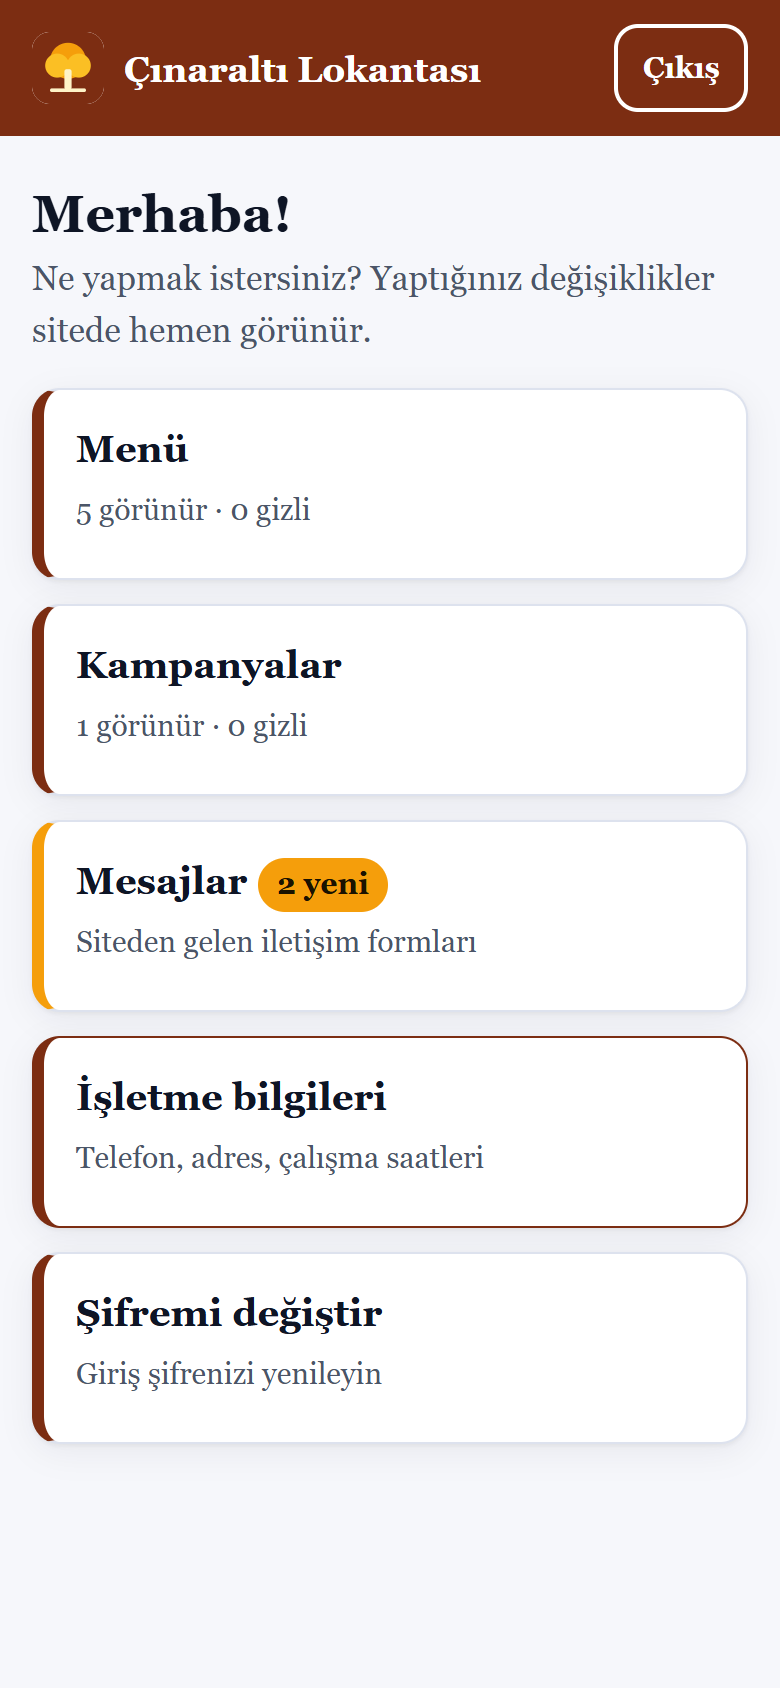
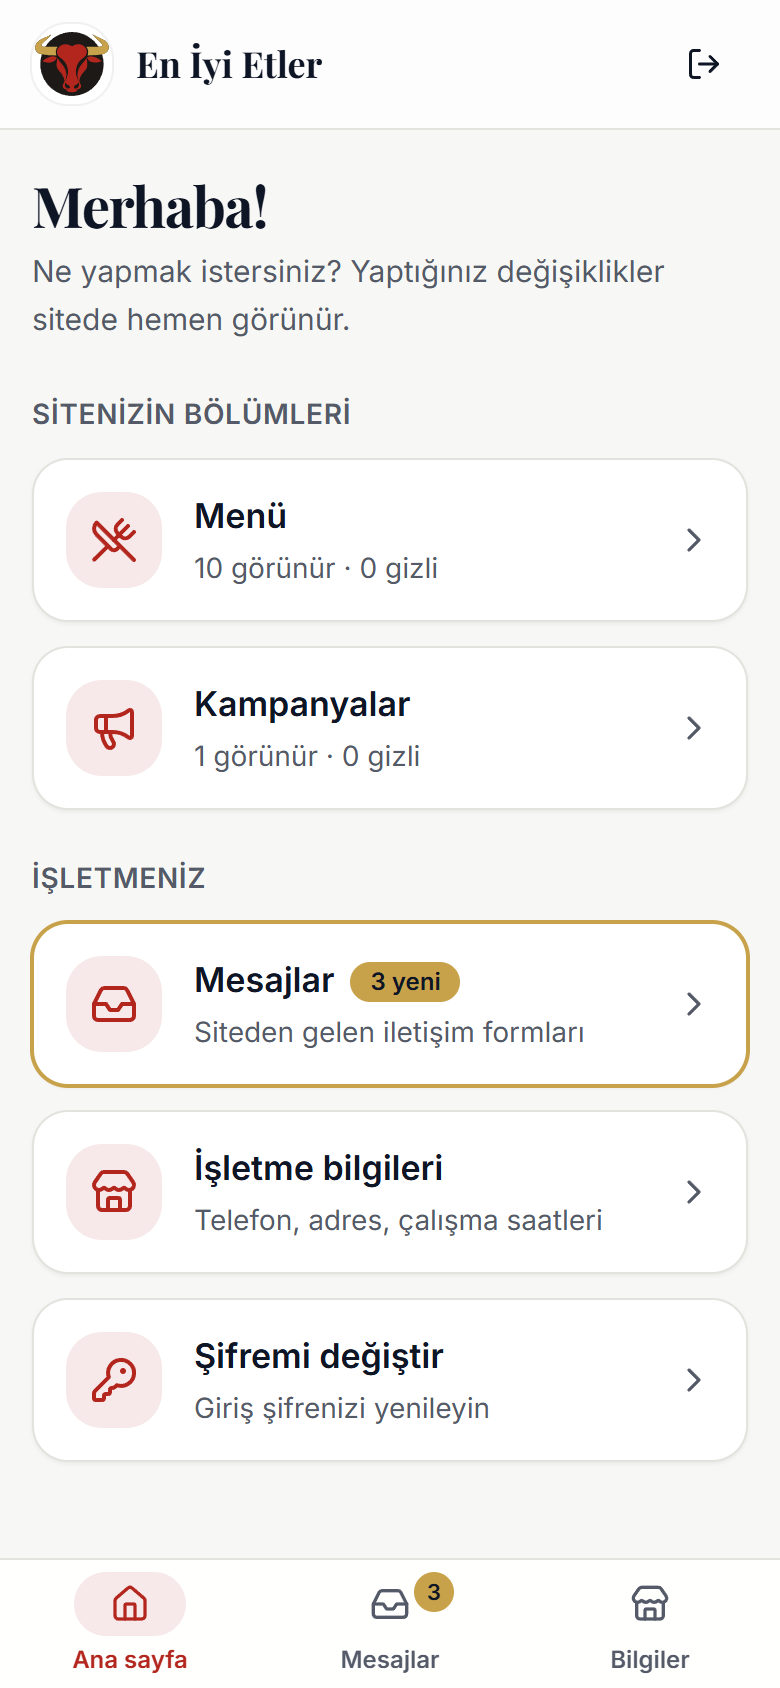
docs: update the admin guide and screenshots for the new panel
Screenshots now show the En İyi Etler panel on a phone and the example page on desktop and mobile.

diff --git a/scripts/docs-screenshots.js b/scripts/docs-screenshots.js
@@ -1,8 +1,8 @@
 'use strict';
 
 /**
- * Captures the admin panel screenshots used in README and docs/admin-rehberi.md.
- * Requires a running server with demo data (npm run seed:demo -- --password demo12345).
+ * Captures the screenshots used in README and docs/admin-rehberi.md.
+ * Requires a running server with demo data (npm run seed:demo -- --reset --password demo12345).
  *
  *   node scripts/docs-screenshots.js --url http://localhost:3000 --password demo12345
  */
@@ -20,77 +20,74 @@ const { values: opts } = parseArgs({
   },
 });
 
+const PHONE = {
+  viewport: { width: 390, height: 844 },
+  deviceScaleFactor: 2,
+  isMobile: true,
+  hasTouch: true,
+  locale: 'tr-TR',
+};
 const wait = (ms) => new Promise((resolve) => setTimeout(resolve, ms));
 
 (async () => {
   fs.mkdirSync(opts.out, { recursive: true });
   const browser = await launchBrowser();
-  const phone = await browser.newContext({
-    viewport: { width: 390, height: 844 },
-    deviceScaleFactor: 2,
-    isMobile: true,
-    hasTouch: true,
-    locale: 'tr-TR',
-  });
-  const page = await phone.newPage();
-  const shot = async (name) => {
-    await wait(400);
+  const save = async (page, name) => {
+    await wait(500);
     await page.screenshot({ path: path.join(opts.out, `${name}.png`) });
     console.log(`  ${name}.png`);
   };
 
-  await page.goto(`${opts.url}/admin/cinaralti-lokanta`);
+  const phone = await browser.newContext(PHONE);
+  const page = await phone.newPage();
+  await page.goto(`${opts.url}/admin/en-iyi-etler`);
   await page.waitForSelector('input[name="email"]');
-  await shot('admin-giris');
+  await save(page, 'admin-giris');
 
-  await page.fill('input[name="email"]', 'lokanta@example.com');
+  await page.fill('input[name="email"]', 'eniyietler@example.com');
   await page.fill('input[name="password"]', opts.password);
   await page.click('button[type="submit"]');
-  await page.waitForSelector('.tiles');
-  await shot('admin-ana-sayfa');
+  await page.waitForSelector('a[href="#/c/menu"]');
+  await save(page, 'admin-ana-sayfa');
 
   await page.click('a[href="#/c/menu"]');
-  await page.waitForSelector('.items');
-  await shot('admin-menu');
+  await page.waitForSelector('[data-testid="item-row"]');
+  await save(page, 'admin-menu');
 
-  await page.click('.item-actions a.btn');
+  await page.click('[data-testid="item-title"]');
   await page.waitForSelector('input[name="title"]');
-  await shot('admin-duzenle');
+  await save(page, 'admin-duzenle');
 
-  await page.goto(`${opts.url}/admin/cinaralti-lokanta#/mesajlar`);
-  await page.waitForSelector('.msg');
-  await shot('admin-mesajlar');
+  await page.goto(`${opts.url}/admin/en-iyi-etler#/mesajlar`);
+  await page.waitForSelector('[data-testid="message"]');
+  await save(page, 'admin-mesajlar');
 
-  await page.goto(`${opts.url}/admin/cinaralti-lokanta#/bilgiler`);
-  await page.waitForSelector('.hours');
-  await shot('admin-bilgiler');
+  await page.goto(`${opts.url}/admin/en-iyi-etler#/bilgiler`);
+  await page.waitForSelector('[data-testid="hours-row"]');
+  await save(page, 'admin-bilgiler');
 
   // Same panel, another customer's brand.
-  const fresh = await browser.newContext({
-    viewport: { width: 390, height: 844 },
-    deviceScaleFactor: 2,
-    isMobile: true,
-    locale: 'tr-TR',
-  });
-  const other = await fresh.newPage();
+  const other = await (await browser.newContext(PHONE)).newPage();
   await other.goto(`${opts.url}/admin/yildiz-kuruyemis`);
   await other.waitForSelector('input[name="email"]');
-  await wait(400);
-  await other.screenshot({ path: path.join(opts.out, 'admin-giris-baska-marka.png') });
-  console.log('  admin-giris-baska-marka.png');
+  await save(other, 'admin-giris-baska-marka');
 
-  // Example landing page on desktop.
-  const desktop = await browser.newContext({
-    viewport: { width: 1280, height: 860 },
+  // The En İyi Etler example page: desktop hero, menu section and a phone view.
+  const desktopContext = await browser.newContext({
+    viewport: { width: 1280, height: 800 },
     locale: 'tr-TR',
   });
-  const landing = await desktop.newPage();
-  await landing.goto(`${opts.url}/examples/restoran/`);
-  await landing.waitForSelector('html.lk-ready');
-  await landing.evaluate(() => document.querySelector('#menu').scrollIntoView());
-  await wait(400);
-  await landing.screenshot({ path: path.join(opts.out, 'ornek-restoran.png') });
-  console.log('  ornek-restoran.png');
+  const desktop = await desktopContext.newPage();
+  await desktop.goto(`${opts.url}/examples/en-iyi-etler/`);
+  await desktop.waitForSelector('html.lk-ready');
+  await save(desktop, 'ornek-sayfa');
+  await desktop.evaluate(() => document.querySelector('#menu').scrollIntoView());
+  await save(desktop, 'ornek-sayfa-menu');
+
+  const mobile = await (await browser.newContext(PHONE)).newPage();
+  await mobile.goto(`${opts.url}/examples/en-iyi-etler/`);
+  await mobile.waitForSelector('html.lk-ready');
+  await save(mobile, 'ornek-sayfa-mobil');
 
   await browser.close();
 })().catch((err) => {
